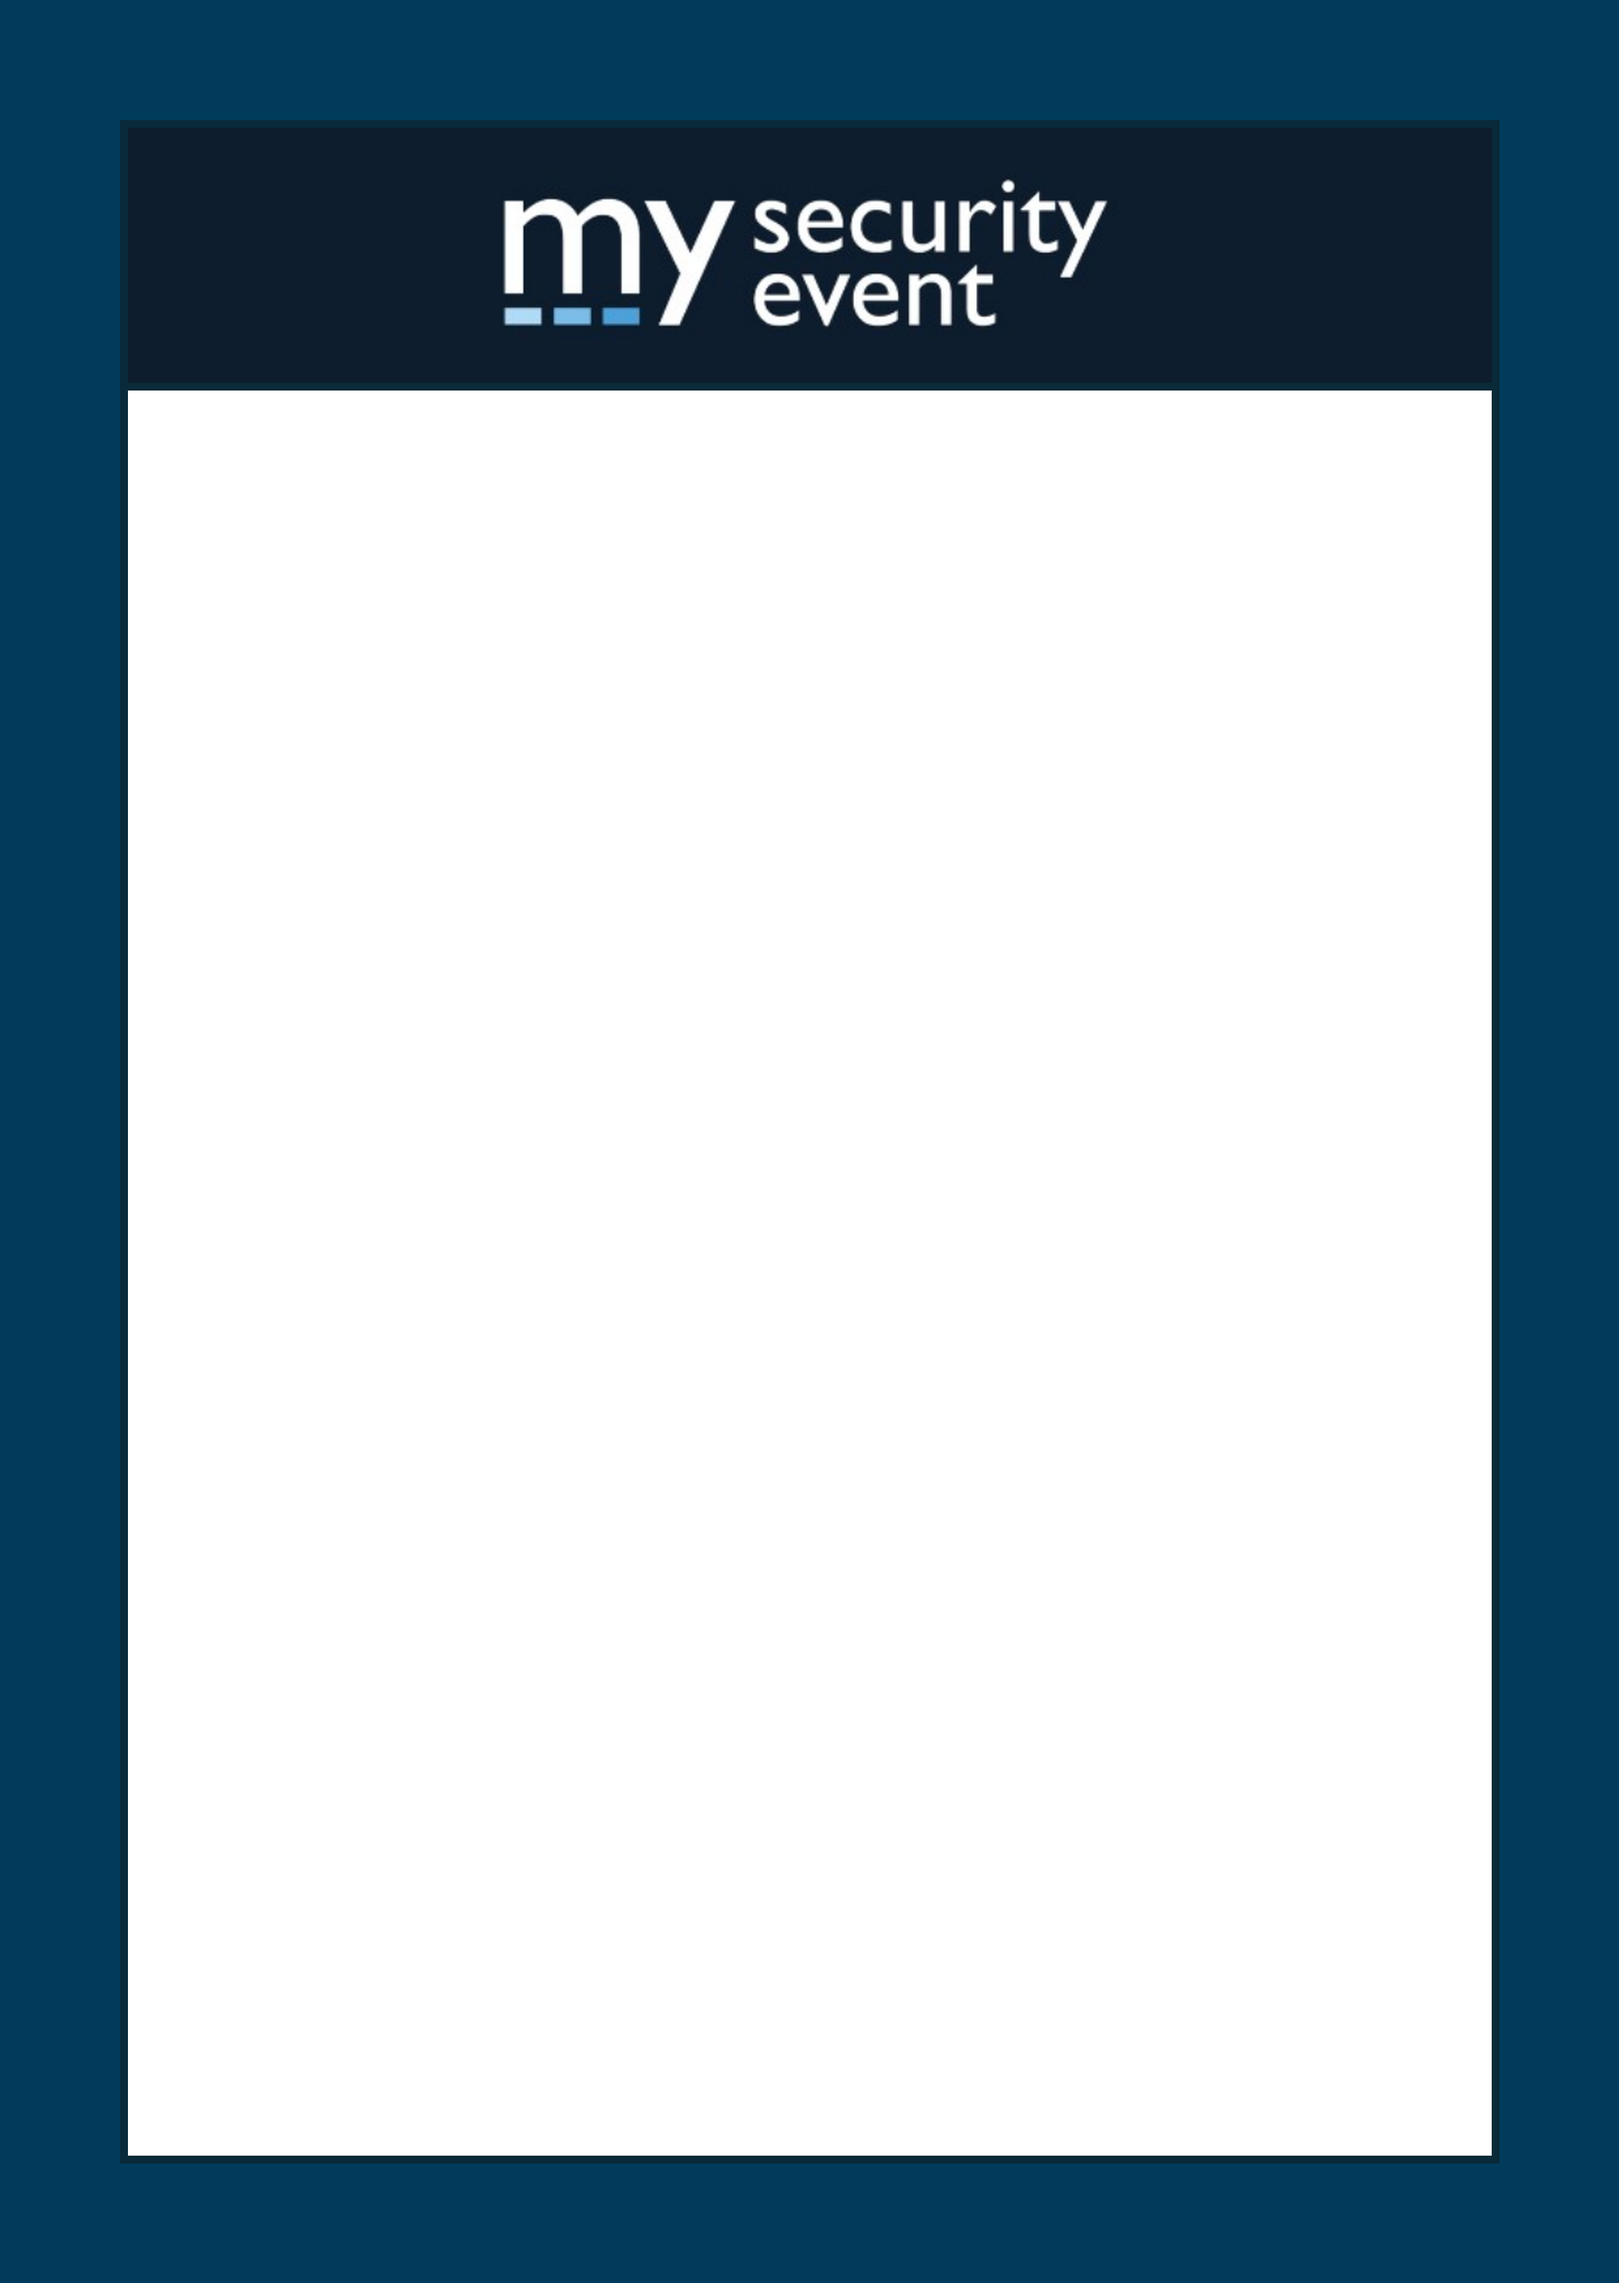
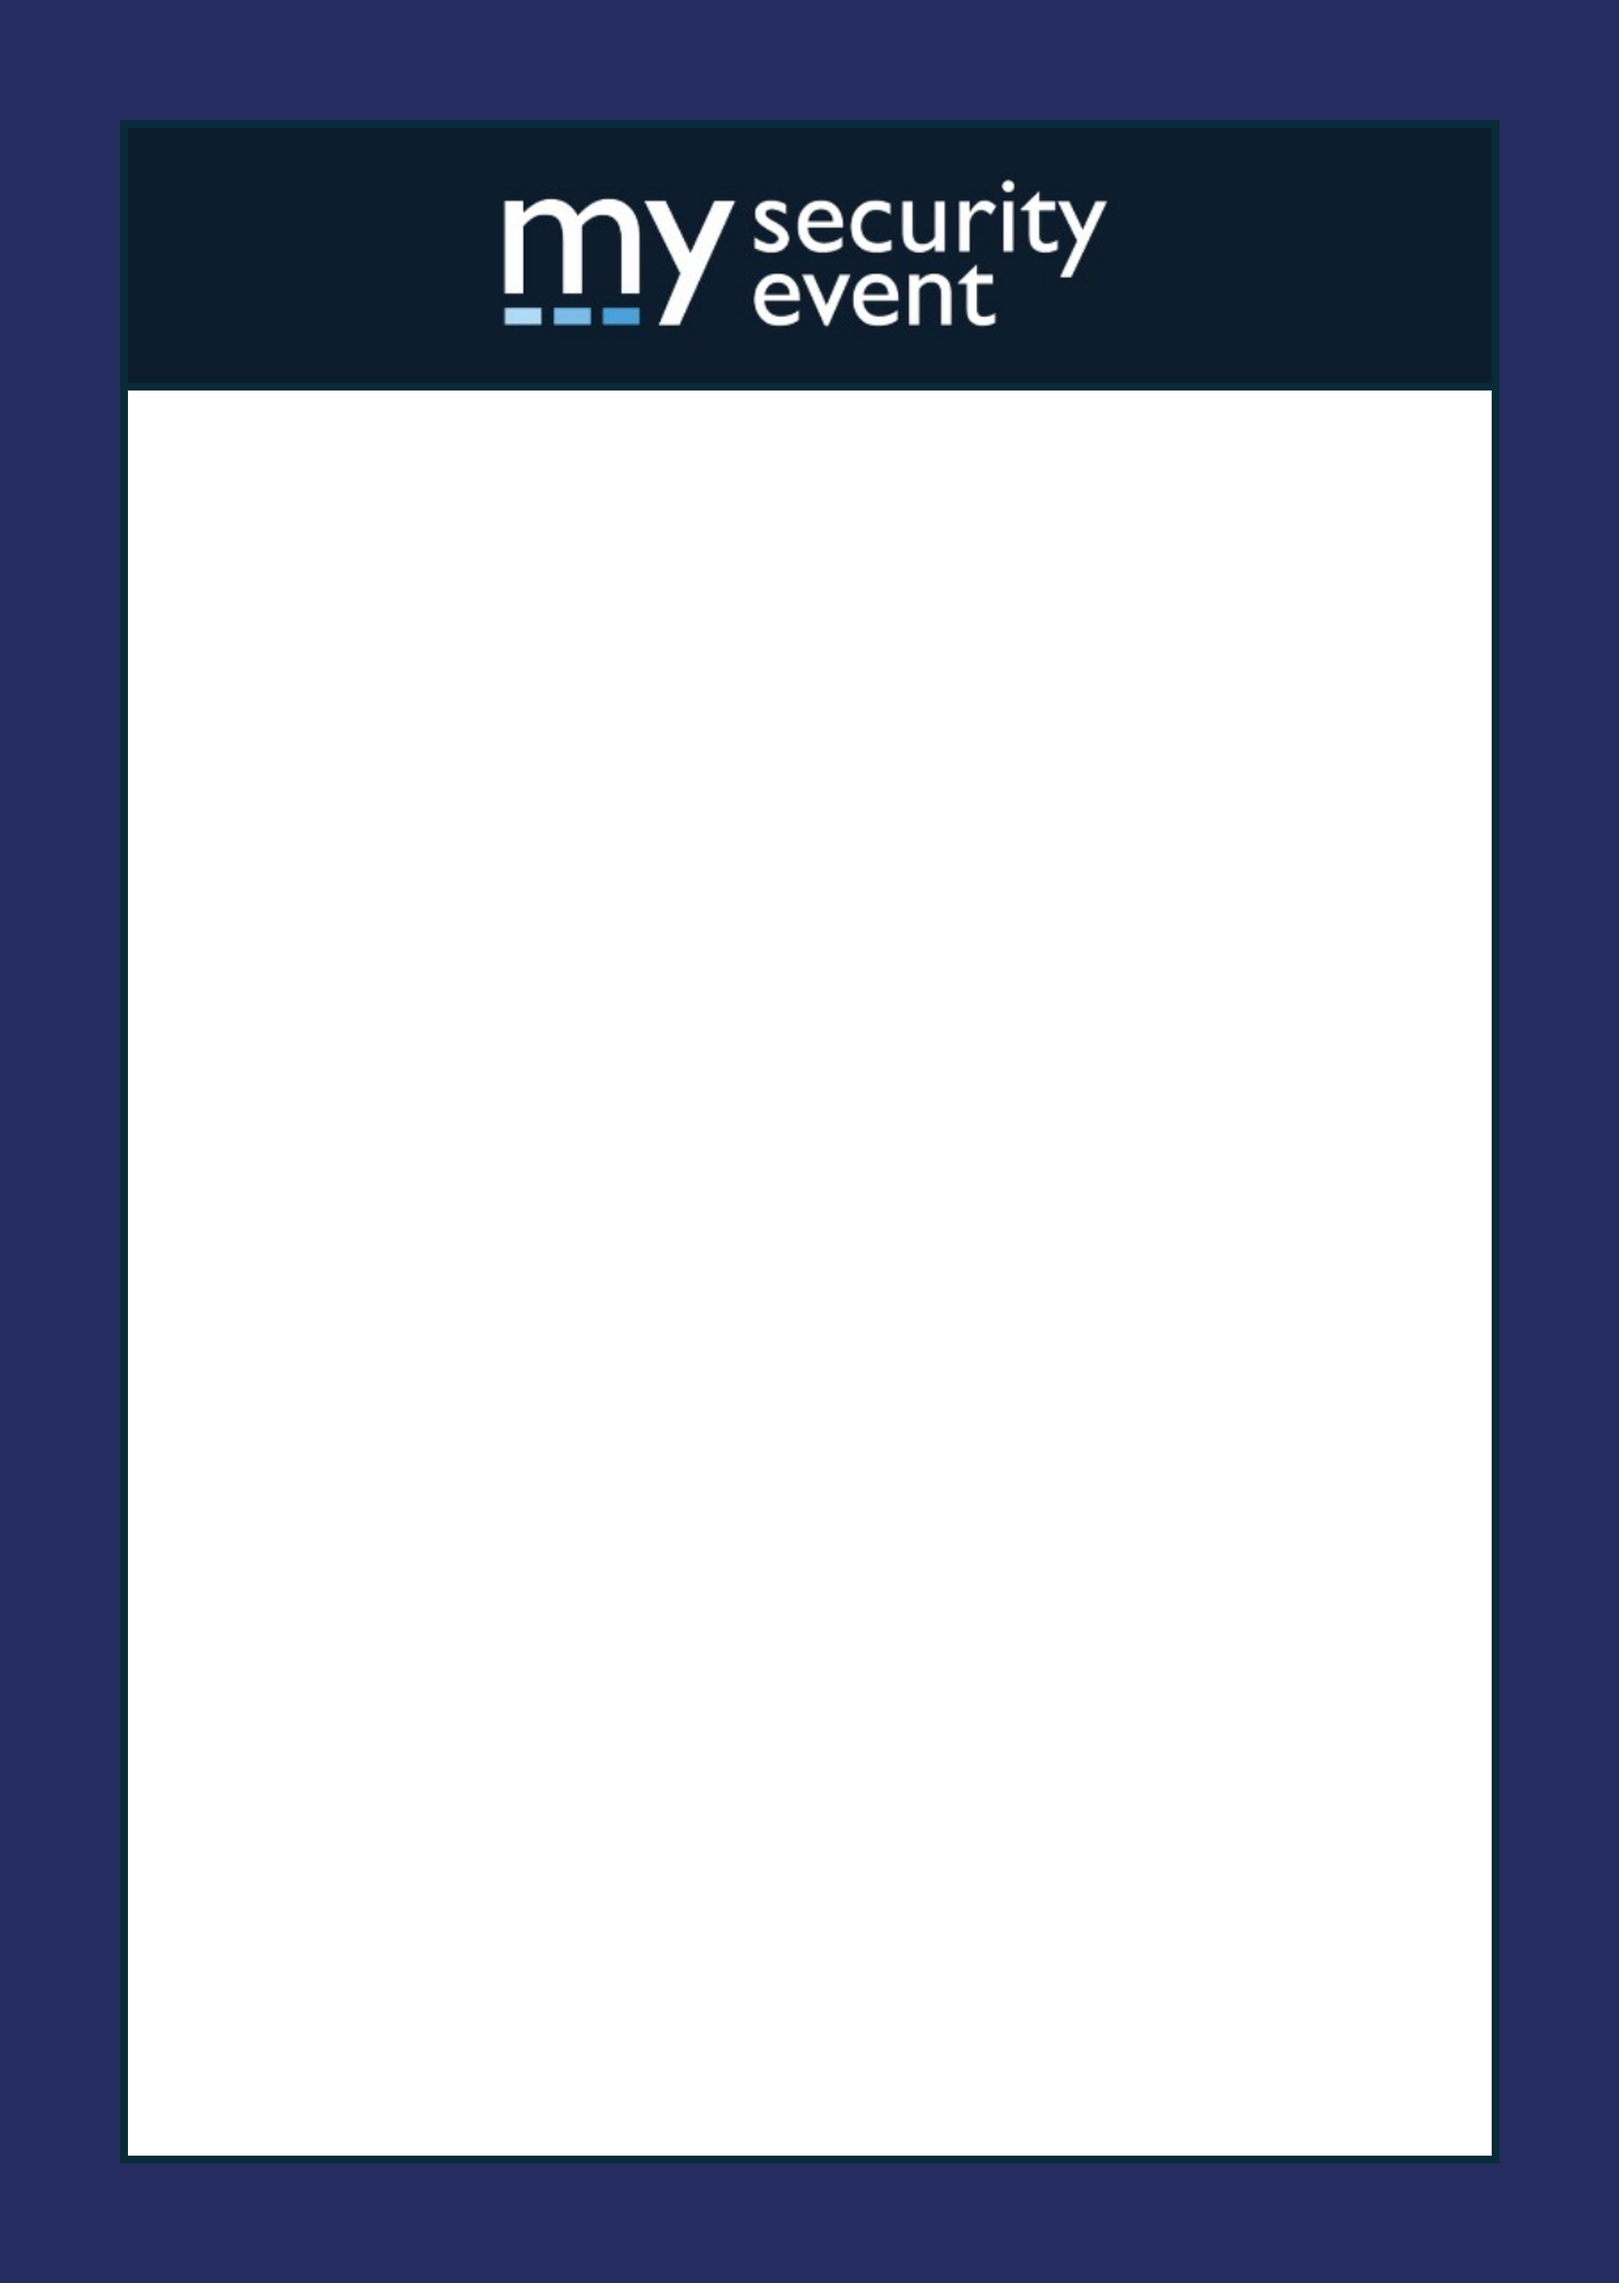
Use specified team and hostess badge hex colors

Changed region(s): [[0.0, 0.0, 1.0, 1.0]]

diff --git a/badgegen/render_pdf.py b/badgegen/render_pdf.py
@@ -43,7 +43,7 @@ _QR_COLOR_BY_CATEGORY = {
     "VIP/REF": colors.HexColor("#B8860B"),  # dunkles Gold
     "Sponsor": colors.black,
     "BEO":     colors.HexColor("#660099"),  # dunkelviolett
-    "Team":    colors.HexColor("#003B5C"),  # dunkelblau
+    "Team":    colors.HexColor("#252D60"),  # dunkelblau
     "Hostess": colors.HexColor("#216AB3"),  # dunkelblau
 }
 _QR_COLOR_DEFAULT = colors.black

diff --git a/tests/test_badgegen_render_pdf.py b/tests/test_badgegen_render_pdf.py
@@ -623,7 +623,7 @@ class QrColorForCategoryTests(unittest.TestCase):
 
     def test_team_gets_dark_blue(self):
         c = _qr_color_for_category("Team", colored=True)
-        self.assertEqual(c, rl_colors.HexColor("#003B5C"))
+        self.assertEqual(c, rl_colors.HexColor("#252D60"))
         self.assertEqual(c, _QR_COLOR_BY_CATEGORY["Team"])
 
     def test_hostess_gets_blue(self):

diff --git a/tests/test_badgegen_assets.py b/tests/test_badgegen_assets.py
@@ -26,8 +26,8 @@ FRAME_COLORS = {
     "vipref.png": (225, 195, 110),
     "sponsor.png": (255, 255, 255),
     "beo.png": (182, 88, 163),
-    "team.png": (0, 59, 92),
-    "hostess.png": (142, 209, 240),
+    "team.png": (37, 45, 96),
+    "hostess.png": (160, 203, 238),
 }
 INNER_ARTWORK_BOX = (184, 184, 2297, 3313)
 
